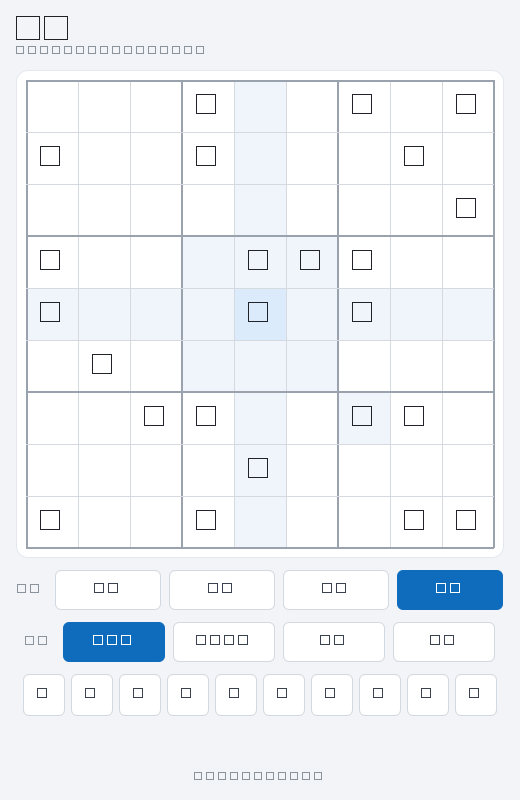
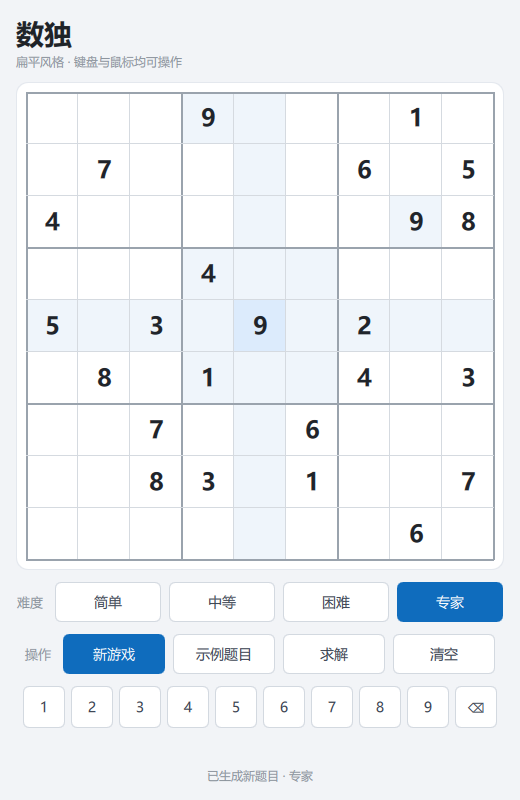
修复截图文字渲染成方框：截图改用真实窗口平台，离屏模式自动指向系统字体目录

diff --git a/qt/main.cpp b/qt/main.cpp
@@ -3,12 +3,42 @@
 #include <QtQuickControls2/QQuickStyle>
 #include <QQuickWindow>
 #include <QTimer>
+#include <QDir>
 #include <QtQml/qqml.h>
 
 #include "engine.h"
 
+// 离屏 / minimal 平台走的是 Qt 基础字体引擎（不查询系统字体服务），而 Qt 已不再内置字体，
+// 若不指定字体目录，所有文字都会渲染成空心方框。这里在创建 QGuiApplication 之前自动兜底。
+static void ensureHeadlessFontDir()
+{
+    const QByteArray platform = qgetenv("QT_QPA_PLATFORM");
+    if (platform != "offscreen" && platform != "minimal")
+        return;
+    if (!qEnvironmentVariableIsEmpty("QT_QPA_FONTDIR"))
+        return;
+
+    const QStringList candidates = {
+#ifdef Q_OS_WIN
+        QStringLiteral("C:/Windows/Fonts"),
+#else
+        QStringLiteral("/usr/share/fonts"),
+        QStringLiteral("/usr/local/share/fonts"),
+        QStringLiteral("/System/Library/Fonts"),
+#endif
+    };
+    for (const QString &dir : candidates) {
+        if (QDir(dir).exists()) {
+            qputenv("QT_QPA_FONTDIR", dir.toLocal8Bit());
+            break;
+        }
+    }
+}
+
 int main(int argc, char *argv[])
 {
+    ensureHeadlessFontDir();
+
     QGuiApplication app(argc, argv);
 
     // Fluent WinUI3 扁平风格（qtquickcontrols2.conf 双保险）

diff --git a/README.md b/README.md
@@ -62,11 +62,17 @@ Windows 发布部署（把 Qt 运行库与 QML 模块复制到 exe 目录，`--q
 windeployqt --release --no-translations --qmldir qt build-qt\sudoku_gui.exe
 ```
 
-无窗口回归自检（离屏渲染三种场景并截图）：
+回归自检（渲染三种场景并截图）：
+
+```powershell
+build-qt\sudoku_gui.exe --screenshot shot.png --scenario sample   # sample | expert | solved
+```
+
+需要无窗口运行时（CI 友好）改用离屏平台即可；程序会自动把 `QT_QPA_FONTDIR` 指向系统字体目录，否则离屏渲染的文字会变成空心方框：
 
 ```powershell
 set QT_QPA_PLATFORM=offscreen
-build-qt\sudoku_gui.exe --screenshot shot.png --scenario sample   # sample | expert | solved
+build-qt\sudoku_gui.exe --screenshot shot.png --scenario sample
 ```
 
 ## 网页版运行
